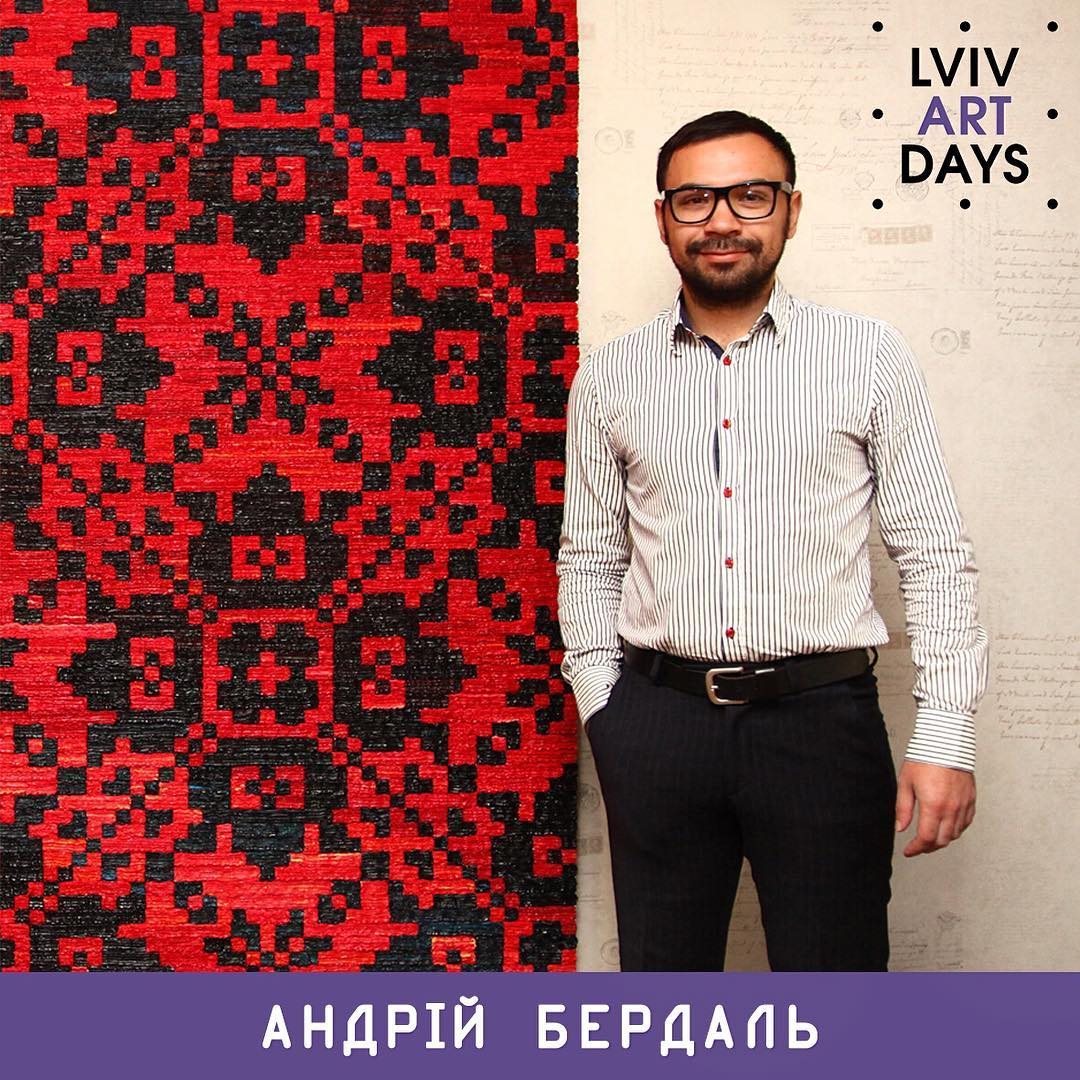
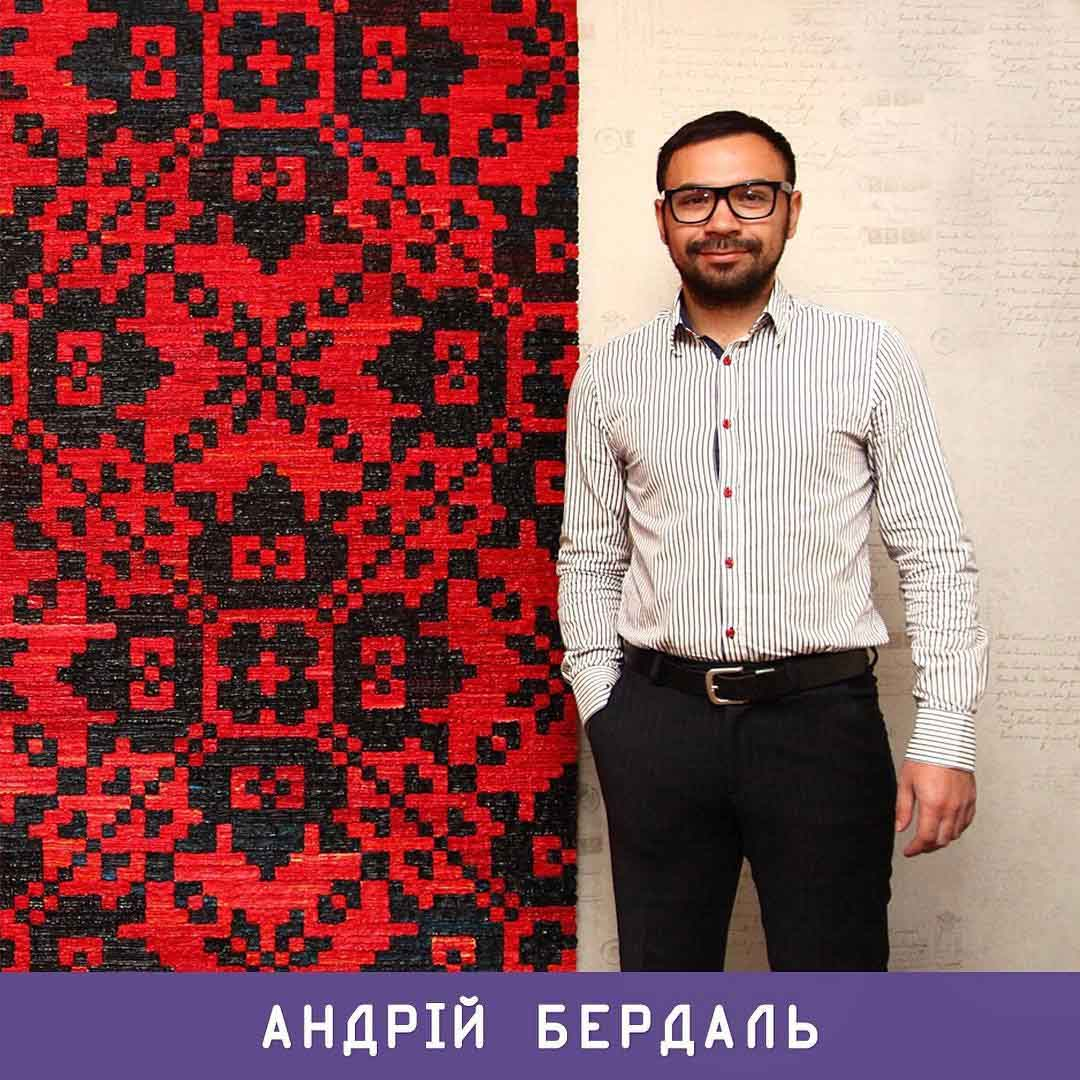
to start

diff --git a/css/artists.css b/css/artists.css
@@ -72,7 +72,6 @@ a {
 }
 
 .righ-art p {
-    
     margin: 2px 0 2px 0;
     font-size: 0.6rem;
     color: #5a4682;
@@ -182,11 +181,6 @@ h3 {
         .righ-art p {
     font-size: 0.8rem;
     margin: 12px 0 12px 0;
-    }
-    .carousel-wrapper {
-        height: 200px;
-        grid-row-start: 3;
-        grid-row-end: 4;
     }
     .left-bottom {
         height: 200px;
@@ -375,15 +369,37 @@ margin-top: -800px;
   margin:0;
 }
 .carousel-item{
-  position:absolute;
-  top:0;
-  bottom:0;
-  left:0;
-  right:0;
-  padding:25px 50px;
-  opacity:0;
-  transition: all 0.5s ease-in-out;
+    display: grid;
+    grid-template-columns: 1fr;
+    align-items: end;
+    position:absolute;
+    top:0;
+    bottom:0;
+    left:0;
+    right:0;
+    /*padding: 25px 0 25px 0;*/
+    opacity:0;
+    transition: all 0.5s ease-in-out;
 }
+
+.carousel-item p {
+    font-size: 0.6rem;
+    color: white;
+    text-align: center;
+    background-color: #5a4682;
+    margin: 0;
+    padding: 10px 0 10px 0;
+    position: absolute;
+    bottom: 0;
+    width: 100%;
+}
+
+.carousel-item img {
+    position: absolute;
+    top: 5%;
+    right: 5%;
+}
+
 .arrow{
  	border: solid white;
     border-width: 0 5px 5px 0;
@@ -409,14 +425,23 @@ margin-top: -800px;
   position:absolute;
   top:50%;
   transform:translateY(-50%) rotate(-45deg);
-  }
+}
 
 
-@media (max-width: 480px) {
-      .arrow, .arrow {
+@media (max-width: 449px) {
+    .carousel-wrapper {
+        /*height: 300px;*/
+        grid-row-start: 3;
+        grid-row-end: 4;
+    }
+    .carousel-item p {
+        font-size: 1rem;
+    }
+    
+      /*.arrow, .arrow {
         background-size: 10px;
         background-position: 10px 50%;
-      }
+      }*/
 }
 
 /*Select every element*/

diff --git a/artists.html b/artists.html
@@ -43,19 +43,27 @@
                     <span id="item-3"></span>
                     <span id="item-4"></span>
                     <div class="carousel-item item-1">
+                        <img src="img/icon-lad.png" alt="lviv art days logo" height="50">
                         <a class="arrow arrow-prev" href="#item-4"></a>
+                        <p>Андрій Бердаль</p>
                         <a class="arrow arrow-next" href="#item-2"></a>
                     </div>
                     <div class="carousel-item item-2">
+                        <img src="img/icon-lad.png" alt="lviv art days logo" height="50">
                         <a class="arrow arrow-prev" href="#item-1"></a>
+                        <p>Андрій Чижов</p>
                         <a class="arrow arrow-next" href="#item-3"></a>
                     </div>
                     <div class="carousel-item item-3">
+                        <img src="img/icon-lad.png" alt="lviv art days logo" height="50">
                         <a class="arrow arrow-prev" href="#item-2"></a>
+                        <p>Олеся Возницька</p>
                         <a class="arrow arrow-next" href="#item-4"></a>
                     </div>
                     <div class="carousel-item item-4">
+                        <img src="img/icon-lad.png" alt="lviv art days logo" height="50">
                         <a class="arrow arrow-prev" href="#item-3"></a>
+                        <p>Олена Жеребецька</p>
                         <a class="arrow arrow-next" href="#item-1"></a>
                     </div>
                 </div>
